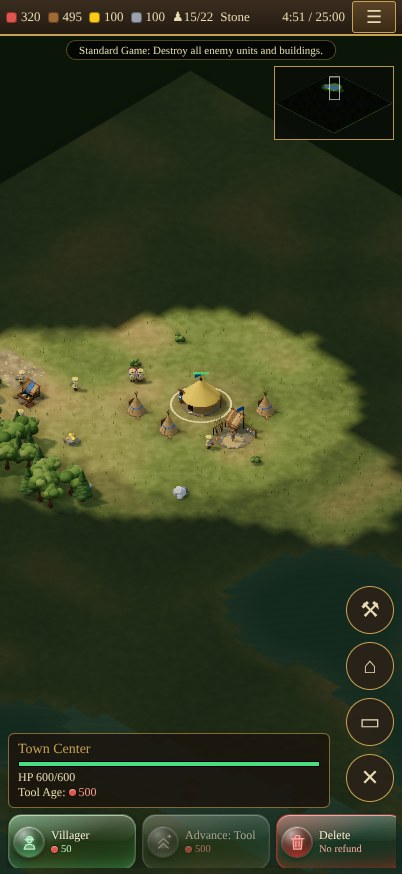
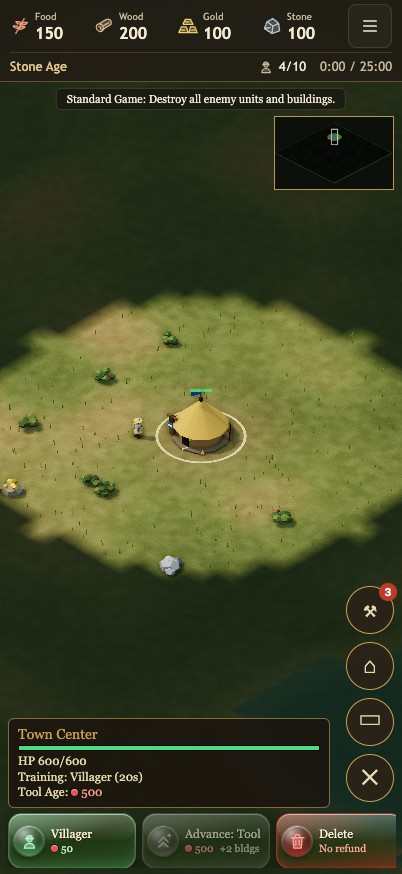
style(design): clarify the mobile resource and status header

diff --git a/styles.css b/styles.css
@@ -28,11 +28,11 @@ html, body { margin:0; height:100%; background:#0b0d09; overflow:hidden; font-fa
 .kingdom-row.fallen { opacity:.5; }
 .kingdom-final { max-width:420px; margin:18px auto; text-align:left; }
 body:not(.ingame) #kingdoms-standings { visibility:hidden; }
-body.touch #kingdoms-standings { top:calc(72px + var(--sat)); left:calc(8px + var(--sal)); width:174px; padding:6px 8px; font-size:10px; }
+body.touch #kingdoms-standings { top:calc(var(--hud-height) + 34px + var(--sat)); left:calc(8px + var(--sal)); width:174px; padding:6px 8px; font-size:10px; }
 body.touch #kingdoms-standings .kingdom-row { padding:3px 0; gap:1px 3px; }
 body.touch #kingdoms-standings .kingdom-heading { margin-bottom:3px; }
 @media (orientation:landscape) and (max-height:500px) {
-  body.touch #kingdoms-standings { width:166px; top:calc(65px + var(--sat)); left:calc(68px + var(--sal)); }
+  body.touch #kingdoms-standings { width:166px; left:calc(68px + var(--sal)); }
 }
 #topbar .match-clock { white-space:nowrap; }
 #topbar button, .btn { background:linear-gradient(#5a4327,#3a2a16); color:var(--parch); border:1px solid var(--bronze); border-radius:3px; padding:4px 10px; font:inherit; cursor:pointer; }
@@ -225,11 +225,28 @@ button { touch-action: manipulation; }
 #objective, #touchbar, #placebar, #gamemenu { display: none; }
 body.touch #app { position: fixed; inset: 0; height: 100dvh; touch-action: none; }
 body.touch #viewport { touch-action: none; }
-body.touch #topbar { height: calc(36px + var(--sat)); padding: var(--sat) calc(var(--sar) + 8px) 0 calc(var(--sal) + 8px); gap: 10px; font-size: 14px; }
-body.touch #topbar .res { min-width: 0; gap: 4px; }
-body.touch #topbar .dot { width: 11px; height: 11px; }
-body.touch #topbar button { min-width: 44px; height: 32px; font-size: 18px; padding: 0 8px; }
-body.touch #objective { display: block; position: absolute; left: 50%; transform: translateX(-50%); top: calc(40px + var(--sat)); max-width: min(92vw, 640px); padding: 3px 12px; background: #000a; border: 1px solid #c8a05266; border-radius: 12px; font-size: 12px; text-align: center; z-index: 4; pointer-events: none; white-space: nowrap; overflow: hidden; text-overflow: ellipsis; }
+body.touch { --hud-height: 52px; --hud-text: #f4ead3; --hud-muted: #c6b89b; --hud-line: #c8a05233; }
+body.touch #topbar { height: calc(var(--hud-height) + var(--sat)); padding: calc(var(--sat) + 4px) calc(var(--sar) + 10px) 4px calc(var(--sal) + 10px); display: grid; grid-template-columns: minmax(240px, 1fr) minmax(230px, 1fr) 44px; grid-template-areas: 'resources status menu'; gap: 16px; background: #211d16f5; border-bottom: 1px solid #c8a05266; color: var(--hud-text); font: 13px/1.2 'Trebuchet MS', Verdana, sans-serif; }
+body.touch #topbar .res { min-width: 0; gap: 5px; white-space: nowrap; }
+body.touch #topbar .ico { width: 20px; height: 20px; flex: none; }
+.hud-resources { grid-area: resources; display: grid; grid-template-columns: repeat(4, minmax(0, 1fr)); gap: 6px; }
+.hud-spectating { grid-column: 1 / -1; align-self: center; color: var(--hud-muted); }
+.hud-resources .res > span { display: flex; flex-direction: column; min-width: 0; }
+.hud-resources small { color: var(--hud-muted); font-size: 10px; line-height: 14px; }
+.hud-resources b { font-size: 16px; line-height: 19px; font-weight: 600; }
+.hud-resources [data-resource=food] > .ico { color: #ee9b78; }
+.hud-resources [data-resource=wood] > .ico { color: #d3b58a; }
+.hud-resources [data-resource=gold] > .ico { color: #edce71; }
+.hud-resources [data-resource=stone] > .ico { color: #b8c5cb; }
+.hud-status { grid-area: status; min-width: 0; display: flex; align-items: center; gap: 14px; font-variant-numeric: tabular-nums; }
+.hud-age { flex: 1; min-width: 0; overflow: hidden; text-overflow: ellipsis; white-space: nowrap; color: #e3c78d; }
+body.touch #topbar .hud-pop { flex: none; }
+body.touch #topbar .hud-pop .ico { width: 16px; height: 16px; color: var(--hud-muted); }
+body.touch #topbar .match-clock { flex: none; color: var(--hud-muted); }
+body.touch #topbar button { grid-area: menu; display: grid; place-items: center; width: 44px; height: 44px; padding: 0; border: 1px solid var(--hud-line); border-radius: 8px; background: #ffffff08; color: var(--hud-text); }
+body.touch #topbar button:active { background: #c8a05233; }
+body.touch #topbar button:focus-visible { outline: 2px solid var(--parch); outline-offset: 1px; }
+body.touch #objective { display: block; position: absolute; left: 50%; transform: translateX(-50%); top: calc(var(--hud-height) + 6px + var(--sat)); max-width: min(92vw, 640px); padding: 4px 10px; background: #181b13e6; border: 1px solid var(--hud-line); border-radius: 5px; color: var(--hud-text); font-size: 12px; text-align: center; z-index: 4; pointer-events: none; white-space: nowrap; overflow: hidden; text-overflow: ellipsis; }
 body.touch #bottom { position: absolute; inset: 0; height: auto; padding: 0; background: none; border: 0; pointer-events: none; }
 body.touch #bottom > * { pointer-events: auto; }
 body.touch #minimap-wrap { position: absolute; left: calc(var(--sal) + 8px); bottom: calc(var(--sab) + 8px); width: 150px; height: 92px; border-width: 1px; opacity: .92; }
@@ -237,7 +254,7 @@ body.touch #minimap { width: 100%; height: 100%; touch-action: none; }
 body.touch #info { position: absolute; left: calc(var(--sal) + 168px); bottom: calc(var(--sab) + 8px); width: min(36vw, 250px); min-width: 0; max-height: min(160px, 40vh); overflow-y: auto; overscroll-behavior: contain; touch-action: pan-y; padding: 6px 9px; background: #1a130ccc; border: 1px solid #c8a05299; border-radius: 6px; font-size: 12px; line-height: 1.3; }
 body.touch #info h3 { font-size: 14px; margin: 0 0 2px; } body.touch #info .bar { width: 100%; height: 6px; margin: 2px 0 3px; } body.touch #info small { display: none; }
 /* Tile counts are data-driven (13 buildings, 10 Barracks units): the panel grows up from the bottom and scrolls from its top, so no tile is pushed out of reach. */
-body.touch #cmds { position: absolute; right: calc(var(--sar) + 8px); bottom: calc(var(--sab) + 8px); top: auto; max-height: calc(100% - 84px - var(--sat) - var(--sab)); width: 246px; grid-template-columns: 1fr 1fr; grid-auto-rows: 48px; gap: 6px; align-content: start; overflow-y: auto; overscroll-behavior: contain; -webkit-overflow-scrolling: touch; touch-action: pan-y; }
+body.touch #cmds { position: absolute; right: calc(var(--sar) + 8px); bottom: calc(var(--sab) + 8px); top: auto; max-height: calc(100% - var(--hud-height) - 40px - var(--sat) - var(--sab)); width: 246px; grid-template-columns: 1fr 1fr; grid-auto-rows: 48px; gap: 6px; align-content: start; overflow-y: auto; overscroll-behavior: contain; -webkit-overflow-scrolling: touch; touch-action: pan-y; }
 body.touch #cmds:empty { display: none; }
 body.touch #cmds .tile { height: 48px; min-width: 0; padding: 4px 6px 4px 5px; }
 body.touch #touchbar { display: flex; flex-direction: column; gap: 8px; position: absolute; left: calc(var(--sal) + 8px); bottom: calc(var(--sab) + 108px); z-index: 5; }
@@ -284,7 +301,10 @@ body.touch .card.menu .quick { min-height: 44px; } body.touch .ladder li { width
 body.touch .ladder li + li::before { width: 10px; }
 /* portrait: commands become a bottom strip, minimap moves top-right */
 @media (orientation: portrait) {
-  body.touch #minimap-wrap { left: auto; right: calc(var(--sar) + 8px); top: calc(66px + var(--sat)); bottom: auto; width: 120px; height: 74px; }
+  body.touch { --hud-height: 82px; }
+  body.touch #topbar { grid-template-columns: minmax(0, 1fr) 44px; grid-template-rows: 44px 24px; grid-template-areas: 'resources menu' 'status status'; column-gap: 8px; row-gap: 4px; }
+  body.touch #topbar .hud-status { align-self: stretch; border-top: 1px solid var(--hud-line); padding-top: 4px; }
+  body.touch #minimap-wrap { left: auto; right: calc(var(--sar) + 8px); top: calc(var(--hud-height) + 34px + var(--sat)); bottom: auto; width: 120px; height: 74px; }
   body.touch #objective { font-size: 11px; }
   body.touch #info { left: calc(var(--sal) + 8px); right: calc(var(--sar) + 72px); width: auto; bottom: calc(var(--sab) + 8px); max-height: 132px; }
   body.touch.has-cmds #info { bottom: calc(var(--sab) + 66px); }
@@ -295,6 +315,18 @@ body.touch .ladder li + li::before { width: 10px; }
   body.touch.has-cmds #touchbar { bottom: calc(var(--sab) + 72px); }
   body.touch #toast { bottom: calc(var(--sab) + 150px); }
   body.touch #placebar { bottom: calc(var(--sab) + 84px); }
+}
+@media (max-width: 374px), (max-width: 740px) and (orientation: landscape) {
+  body.touch #topbar .hud-resources .ico { width: 16px; height: 16px; }
+  body.touch #topbar .hud-resources .res { gap: 3px; }
+  body.touch #topbar .hud-resources b { font-size: 14px; }
+}
+/* A vertical action stack reaches into the header on older, short landscape phones. */
+@media (orientation: landscape) and (max-height: 360px) {
+  body.touch #touchbar { display: grid; grid-template-columns: repeat(2, 48px); }
+  body.touch #kingdoms-standings { left: calc(128px + var(--sal)); }
+  body.touch #kingdoms-standings .kingdom-row { padding-top: 2px; padding-bottom: 2px; }
+  body.touch #kingdoms-standings .kingdom-row > small { display: none; }
 }
 /* short landscape phones: compact menus */
 @media (max-height: 500px) {
@@ -311,5 +343,3 @@ body.touch .ladder li + li::before { width: 10px; }
 body.touch.placing #info { display: none; }
 body.touch #placebar .btn { min-width: 116px; }
 body:not(.ingame) #topbar, body:not(.ingame) #bottom, body:not(.ingame) #touchbar, body:not(.ingame) #objective, body:not(.ingame) #placebar { visibility: hidden; }
-body.touch #topbar .res { white-space: nowrap; }
-@media (orientation: portrait) { body.touch #topbar { gap: 7px; font-size: 13px; padding-left: calc(var(--sal) + 6px); padding-right: calc(var(--sar) + 6px); } }

diff --git a/src/ui/hud.js b/src/ui/hud.js
@@ -287,6 +287,11 @@ export function createHud(ui) {
     const clockLabel = round ? (game.capTicks === Infinity ? ' / no time limit' : ' / time limit') : '';
     const clockHtml = `<span class="res match-clock" ${roundAttrs} aria-label="Elapsed game time${clockLabel}"></span>`;
     if (ui.spectating) {
+      if (ui.touch) {
+        return '<div class="hud-resources"><span class="hud-spectating">Spectating</span></div>'
+          + '<div class="hud-status"><span class="hud-age">Kingdom Conquest</span>' + clockHtml + '</div>'
+          + `<button data-menu="open" aria-label="Game settings">${icon('menu')}</button>`;
+      }
       return '<span class="res">Spectating</span><span class="grow">Kingdom Conquest</span>' + clockHtml
         + (ui.touch ? '' : SPEEDS.map(speed => `<button data-speed="${speed}">${speed}x</button>`).join('')
           + `<button data-pause="1">${ui.paused ? 'Resume' : 'Pause'}</button>`)
@@ -294,10 +299,20 @@ export function createHud(ui) {
     }
     const popTitle = `title="Population (${ageTitle(player.age)} limit ${popLimit(player.age)})"`;
     if (ui.touch) {
-      return resourcesHtml + `<span class="res" ${popTitle}>&#9823;${player.pop}/${player.popCap}</span>`
-        + `<span class="res">${ageLabel(player.age)}${player.ageUp ? '&hellip;' : ''}</span>`
-        + `<span style="flex:1"></span>${clockHtml}`
-        + '<button data-menu="open" aria-label="Menu">&#9776;</button>';
+      const resources = RES.map(resource => {
+        const amount = Math.floor(player.res[resource]);
+        const value = amount >= 1000000 ? (amount / 1000000).toFixed(1).replace(/\.0$/, '') + 'm'
+          : amount >= 100000 ? Math.floor(amount / 1000) + 'k'
+            : amount >= 10000 ? (amount / 1000).toFixed(1).replace(/\.0$/, '') + 'k' : amount;
+        return `<span class="res" data-resource="${resource}" title="${capitalize(resource)}: ${amount}" aria-label="${capitalize(resource)}: ${amount}">`
+          + icon(resource) + `<span><small>${capitalize(resource)}</small><b>${value}</b></span></span>`;
+      }).join('');
+      return `<div class="hud-resources" aria-label="Resources">${resources}</div>`
+        + '<div class="hud-status">'
+        + `<span class="hud-age" title="${ageTitle(player.age)}${player.ageUp ? ' (advancing)' : ''}">${ageTitle(player.age)}${player.ageUp ? '&hellip;' : ''}</span>`
+        + `<span class="res hud-pop" ${popTitle} aria-label="Population: ${player.pop} of ${player.popCap}">${icon('villager')}${player.pop}/${player.popCap}</span>`
+        + clockHtml + '</div>'
+        + `<button data-menu="open" aria-label="Game settings">${icon('menu')}</button>`;
     }
     return resourcesHtml
       + `<span class="res" ${popTitle}>Pop ${player.pop}/${player.popCap}</span>`

diff --git a/src/ui/icons.js b/src/ui/icons.js
@@ -71,6 +71,11 @@ export const ICONS = {
   destroyer: svg(`<path d="M1.5 15.5h21l-3.6 4.5H4.2z" ${DUOTONE}/><path d="M7.5 15.5v-3.5h7v3.5M10 12V8.5h3V12M11.5 8.5V4.5"/><path d="M14.5 13.5h5M4 14.5l3.5-1"/>`),
   king: svg(`<path d="M4.2 18.6 3.6 8.2l4.9 4.3L12 5.8l3.5 6.7 4.9-4.3-.6 10.4z" ${DUOTONE}/><path d="M4.4 20.8h15.2"/><circle cx="3.6" cy="7.6" r="1.1" ${SOLID}/><circle cx="12" cy="5" r="1.1" ${SOLID}/><circle cx="20.4" cy="7.6" r="1.1" ${SOLID}/>`),
   // ui
+  food: svg(`<path d="M7 21 17 3M10 15c-5 0-6-3-6-3 4-1 6 0 6 3ZM13 10c-5 0-6-3-6-3 4-1 6 0 6 3ZM11 16c5 0 7-3 7-3-4-1-7 0-7 3ZM14 11c5 0 7-3 7-3-4-1-7 0-7 3Z" ${DUOTONE}/>`),
+  wood: svg(`<path d="m5 10 10-6c4-2 8 5 4 7L9 17" ${DUOTONE}/><ellipse cx="7" cy="14" rx="4" ry="5" transform="rotate(-30 7 14)"/><path d="m11 12 7-4M5.5 13c2-1 4 2 2 3"/>`),
+  gold: svg(`<path d="m9 4-3 6h12l-3-6Zm-5 9-3 7h11l-2-7Zm11 0-2 7h10l-3-7Z" ${DUOTONE}/><path d="M9 7h5M4 17h4M16 17h4"/>`),
+  stone: svg(`<path d="m3 15 3-8 7-4 7 6 1 9-9 3Z" ${DUOTONE}/><path d="m6 7 7 5 7-3M13 12l-1 9M3 15l7-1"/>`),
+  menu: svg('<path d="M4 6h16M4 12h16M4 18h16"/>'),
   age: svg(`<path d="M5.8 12.8 12 6.6l6.2 6.2" /><path d="M5.8 19 12 12.8l6.2 6.2" ${DUOTONE}/><path d="M19.4 2.4v4M17.4 4.4h4"/>`),
   lock: svg(`<path d="M7.6 11V8.4a4.4 4.4 0 0 1 8.8 0V11"/><rect x="5.5" y="11" width="13" height="9.5" rx="2" ${DUOTONE}/><circle cx="12" cy="15.2" r="1.3" ${SOLID}/>`),
   delete: svg(`<path d="M6.3 7.2l1 13.3h9.4l1-13.3z" ${DUOTONE}/><path d="M4 7.2h16"/><path d="M9.4 7.2V4.4a.9.9 0 0 1 .9-.9h3.4a.9.9 0 0 1 .9.9v2.8"/><path d="M10 10.6v6.6M14 10.6v6.6"/>`),

diff --git a/AGENTS.md b/AGENTS.md
@@ -102,6 +102,8 @@ Regicide, Wonder Race, Capture the Relics), nine eras (Stone to AI Future), on a
   module Worker (`worker.js`, managed by `async-sim.js`); no live match state crosses threads.
 - `src/render`, `src/ui`, `src/main.js`: Three.js view, HUD, desktop + touch input, tournament flow. Reads sim state;
   never mutates it except via commands.
+  - The touch header separates resources and status in portrait and uses one row in landscape. Its `--hud-height`
+    (82px portrait, 52px landscape, plus safe-area padding) also anchors the objective, minimap, standings and command panel.
   - Every mesh using `MODEL_MATERIAL` is drawn through one `BatchedMesh` (`render/batch.js`). Layer-1 proxies retain
     picking and CPU pose updates; stationary resource proxies stay outside the scene hierarchy. Unchanged matrices
     are cached, and contact shadows use stable `InstancedMesh` slots. `render/cosmetics.js` animates building effects
